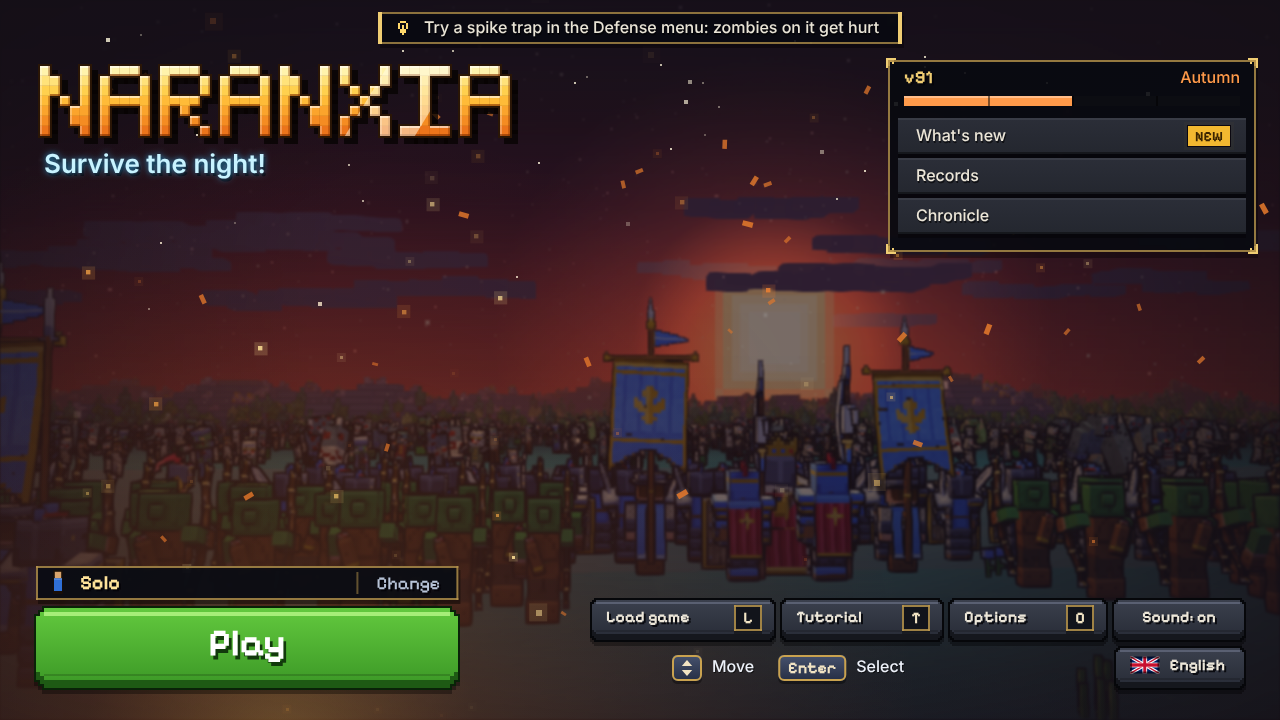
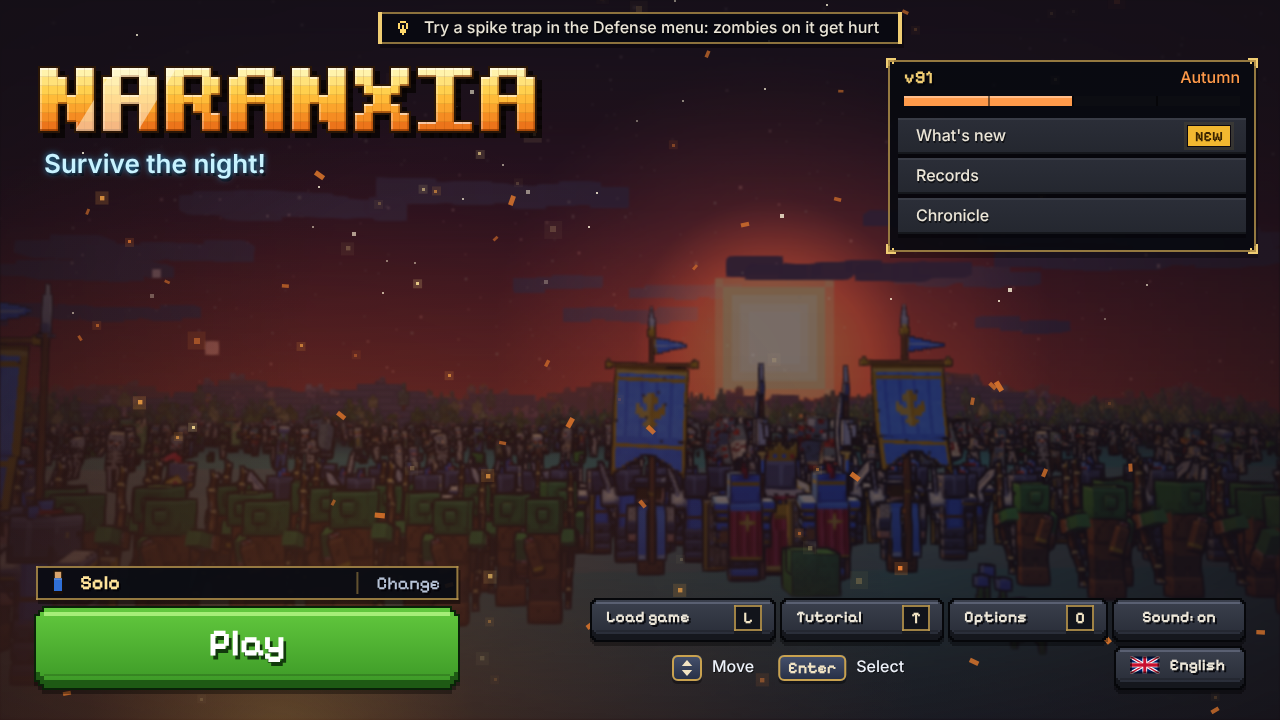
Revamp: review board (before / after), captures, notes, fitcheck result
docs/studio-boards/revamp/board.html, 1280x720 captures of every reworked
screen, 390x844 for title, modes, saves and settings, studio note, fitcheck
output (TOTAL 1, the known French "Construire").

Claude-Session: https://claude.ai/code/session_01RjDKDR1nq7agPQpxDGEi8u

diff --git a/docs/studio-boards/revamp/board.html b/docs/studio-boards/revamp/board.html
@@ -1,0 +1,69 @@
+<!doctype html><html lang="fr"><head><meta charset="utf-8"><meta name="viewport" content="width=device-width,initial-scale=1"><title>Naranxia - revamp menus</title>
+<style>body{margin:0;background:#0b1020;color:#ece6d8;font:15px/1.45 system-ui,Segoe UI,Arial,sans-serif}main{max-width:1500px;margin:0 auto;padding:18px}h1{color:#f0cd73;font-size:24px;margin:6px 0}h2{color:#f0cd73;font-size:17px;margin:26px 0 4px}p{margin:4px 0 10px;color:#b9b2a2}.r{display:grid;grid-template-columns:1fr 1fr;gap:12px}.r.one{grid-template-columns:1fr}figure{margin:0;background:#141a2e;border:1px solid #3a3420;padding:6px}figcaption{font-weight:700;color:#f0cd73;padding:2px 2px 6px}img{width:100%;height:auto;display:block}.ph{display:flex;gap:12px;flex-wrap:wrap}.ph figure{width:230px}@media(max-width:800px){.r{grid-template-columns:1fr}}</style></head><body><main>
+<h1>Naranxia : revamp des fenêtres de lancement, des menus, des logos et des animations</h1>
+<p>Une ligne par écran : A = avant, B = après. Répondez avec un code par ligne, par exemple « 1B 2B 3A ». Les animations (entrée des fenêtres, boutons qui s'enfoncent, reflet du logo, braises, rideau titre vers jeu, pastilles NEW) ne se voient pas sur des images fixes.</p>
+<h2>1. Écran titre (lobby)</h2><p>Bouton Jouer biseauté sous la bande du mode, boutons à pastille de touche, carte version / saison / Nouveautés, bandeau d'astuce, logo en blocs, lueur de feu.</p><div class="r">
+<figure><figcaption>1A avant</figcaption><img src="A_title.png" alt="avant"></figure>
+<figure><figcaption>1B après</figcaption><img src="B_title.png" alt="après"></figure>
+</div>
+<h2>2. Choix du mode</h2><p>Cartes à coches ; le mode courant est cerclé d'or. Cliquer une carte la choisit, son bouton lance tout de suite.</p><div class="r">
+<figure><figcaption>2A avant</figcaption><img src="A_modes.png" alt="avant"></figure>
+<figure><figcaption>2B après</figcaption><img src="B_modes.png" alt="après"></figure>
+</div>
+<h2>3. Nouveau royaume</h2><p>Même gabarit, gros bouton vert « Choisir le site ».</p><div class="r">
+<figure><figcaption>3A avant</figcaption><img src="A_setup.png" alt="avant"></figure>
+<figure><figcaption>3B après</figcaption><img src="B_setup.png" alt="après"></figure>
+</div>
+<h2>4. Charger une partie</h2><p>Lignes avec bannière, étiquette de vague, date ; Charger / Supprimer dépliés sous la ligne choisie.</p><div class="r">
+<figure><figcaption>4A avant</figcaption><img src="A_saves.png" alt="avant"></figure>
+<figure><figcaption>4B après</figcaption><img src="B_saves.png" alt="après"></figure>
+</div>
+<h2>5. Langue</h2><p>Lignes pleine largeur, coche sur la langue active.</p><div class="r">
+<figure><figcaption>5A avant</figcaption><img src="A_lang.png" alt="avant"></figure>
+<figure><figcaption>5B après</figcaption><img src="B_lang.png" alt="après"></figure>
+</div>
+<h2>6. Chronique</h2><p>Sections, texte qui défile (molette, clavier, doigt) au lieu de rétrécir.</p><div class="r">
+<figure><figcaption>6A avant</figcaption><img src="A_chronicle.png" alt="avant"></figure>
+<figure><figcaption>6B après</figcaption><img src="B_chronicle.png" alt="après"></figure>
+</div>
+<h2>7. Records</h2><p>Sections Record / Dernière partie / Meilleures parties.</p><div class="r">
+<figure><figcaption>7A avant</figcaption><img src="A_records.png" alt="avant"></figure>
+<figure><figcaption>7B après</figcaption><img src="B_records.png" alt="après"></figure>
+</div>
+<h2>8. Nouveautés</h2><p>Liste à puces qui défile.</p><div class="r">
+<figure><figcaption>8A avant</figcaption><img src="A_notes.png" alt="avant"></figure>
+<figure><figcaption>8B après</figcaption><img src="B_notes.png" alt="après"></figure>
+</div>
+<h2>9. Réglages : Jeu</h2><p>Onglets biseautés, sections, valeurs à droite.</p><div class="r">
+<figure><figcaption>9A avant</figcaption><img src="A_settings0.png" alt="avant"></figure>
+<figure><figcaption>9B après</figcaption><img src="B_settings0.png" alt="après"></figure>
+</div>
+<h2>10. Réglages : Affichage et son</h2><p>Curseurs et choix sur la ligne.</p><div class="r">
+<figure><figcaption>10A avant</figcaption><img src="A_settings1.png" alt="avant"></figure>
+<figure><figcaption>10B après</figcaption><img src="B_settings1.png" alt="après"></figure>
+</div>
+<h2>11. Réglages : Touches</h2><p>Liste qui défile, pastilles de touche.</p><div class="r">
+<figure><figcaption>11A avant</figcaption><img src="A_settings3.png" alt="avant"></figure>
+<figure><figcaption>11B après</figcaption><img src="B_settings3.png" alt="après"></figure>
+</div>
+<h2>12. Menu Échap</h2><p>Même gabarit sur un voile sombre ; Échap revient au jeu.</p><div class="r">
+<figure><figcaption>12A avant</figcaption><img src="A_esc.png" alt="avant"></figure>
+<figure><figcaption>12B après</figcaption><img src="B_esc.png" alt="après"></figure>
+</div>
+<h2>13. Écran de fin</h2><p>Voile rouge sombre, cadre à coins ornés, titre doré, boutons biseautés. (Fond de capture : la scène du titre.)</p><div class="r">
+<figure><figcaption>13A avant</figcaption><img src="A_end.png" alt="avant"></figure>
+<figure><figcaption>13B après</figcaption><img src="B_end.png" alt="après"></figure>
+</div>
+<h2>14. Intro Hammerdawn Studio</h2><p>Marteau et aube en pixel, bleu nuit et or. (Avant : carte blanche, logo au trait bleu ; pas de capture.)</p><div class="r one">
+<figure><figcaption>14B après</figcaption><img src="B_boot.png" alt="après" style="max-width:640px"></figure>
+</div>
+<h2>15. Favicon</h2><p>N en blocs (nouveau : il n'y en avait pas).</p><div class="r one">
+<figure><figcaption>15B après</figcaption><img src="B_favicon.png" alt="après" style="max-width:640px"></figure>
+</div>
+<h2>16. Téléphone (390x844), après</h2><p>Mêmes écrans en étroit : pile verticale, onglets, lignes sur deux niveaux quand les choix ne tiennent pas.</p><div class="ph">
+<figure><figcaption>Titre 390x844</figcaption><img src="B390_title.png" alt="Titre 390x844"></figure>
+<figure><figcaption>Modes 390x844</figcaption><img src="B390_modes.png" alt="Modes 390x844"></figure>
+<figure><figcaption>Charger 390x844</figcaption><img src="B390_saves.png" alt="Charger 390x844"></figure>
+<figure><figcaption>Réglages 390x844</figcaption><img src="B390_settings0.png" alt="Réglages 390x844"></figure>
+<figure><figcaption>Affichage et son 390x844</figcaption><img src="B390_settings1.png" alt="Affichage et son 390x844"></figure>
+</div></main></body></html>

diff --git a/docs/studio-boards/revamp/make_board.py b/docs/studio-boards/revamp/make_board.py
@@ -1,0 +1,35 @@
+#!/usr/bin/env python3
+"""Writes board.html (before / after, one row per screen) from the captures in this folder. A = before (release-v84), B = after."""
+from pathlib import Path
+D=Path(__file__).resolve().parent
+ROWS=[('title','Écran titre (lobby)','Bouton Jouer biseauté sous la bande du mode, boutons à pastille de touche, carte version / saison / Nouveautés, bandeau d\'astuce, logo en blocs, lueur de feu.'),
+ ('modes','Choix du mode','Cartes à coches ; le mode courant est cerclé d\'or. Cliquer une carte la choisit, son bouton lance tout de suite.'),
+ ('setup','Nouveau royaume','Même gabarit, gros bouton vert « Choisir le site ».'),
+ ('saves','Charger une partie','Lignes avec bannière, étiquette de vague, date ; Charger / Supprimer dépliés sous la ligne choisie.'),
+ ('lang','Langue','Lignes pleine largeur, coche sur la langue active.'),
+ ('chronicle','Chronique','Sections, texte qui défile (molette, clavier, doigt) au lieu de rétrécir.'),
+ ('records','Records','Sections Record / Dernière partie / Meilleures parties.'),
+ ('notes','Nouveautés','Liste à puces qui défile.'),
+ ('settings0','Réglages : Jeu','Onglets biseautés, sections, valeurs à droite.'),
+ ('settings1','Réglages : Affichage et son','Curseurs et choix sur la ligne.'),
+ ('settings3','Réglages : Touches','Liste qui défile, pastilles de touche.'),
+ ('esc','Menu Échap','Même gabarit sur un voile sombre ; Échap revient au jeu.'),
+ ('end','Écran de fin','Voile rouge sombre, cadre à coins ornés, titre doré, boutons biseautés. (Fond de capture : la scène du titre.)'),
+ ('boot','Intro Hammerdawn Studio','Marteau et aube en pixel, bleu nuit et or. (Avant : carte blanche, logo au trait bleu ; pas de capture.)'),
+ ('favicon','Favicon','N en blocs (nouveau : il n\'y en avait pas).')]
+P=[('B390_title','Titre 390x844'),('B390_modes','Modes 390x844'),('B390_saves','Charger 390x844'),('B390_settings0','Réglages 390x844'),('B390_settings1','Affichage et son 390x844')]
+h=['<!doctype html><html lang="fr"><head><meta charset="utf-8"><meta name="viewport" content="width=device-width,initial-scale=1"><title>Naranxia - revamp menus</title>',
+ '<style>body{margin:0;background:#0b1020;color:#ece6d8;font:15px/1.45 system-ui,Segoe UI,Arial,sans-serif}main{max-width:1500px;margin:0 auto;padding:18px}h1{color:#f0cd73;font-size:24px;margin:6px 0}h2{color:#f0cd73;font-size:17px;margin:26px 0 4px}p{margin:4px 0 10px;color:#b9b2a2}.r{display:grid;grid-template-columns:1fr 1fr;gap:12px}.r.one{grid-template-columns:1fr}figure{margin:0;background:#141a2e;border:1px solid #3a3420;padding:6px}figcaption{font-weight:700;color:#f0cd73;padding:2px 2px 6px}img{width:100%;height:auto;display:block}.ph{display:flex;gap:12px;flex-wrap:wrap}.ph figure{width:230px}@media(max-width:800px){.r{grid-template-columns:1fr}}</style></head><body><main>',
+ '<h1>Naranxia : revamp des fenêtres de lancement, des menus, des logos et des animations</h1>',
+ '<p>Une ligne par écran : A = avant, B = après. Répondez avec un code par ligne, par exemple « 1B 2B 3A ». Les animations (entrée des fenêtres, boutons qui s\'enfoncent, reflet du logo, braises, rideau titre vers jeu, pastilles NEW) ne se voient pas sur des images fixes.</p>']
+for i,(k,t,n) in enumerate(ROWS,1):
+    a=(D/('A_%s.png'%k)).exists();b=(D/('B_%s.png'%k)).exists()
+    h.append('<h2>%d. %s</h2><p>%s</p><div class="r%s">'%(i,t,n,'' if a and b else ' one'))
+    if a:h.append('<figure><figcaption>%dA avant</figcaption><img src="A_%s.png" alt="avant"></figure>'%(i,k))
+    if b:h.append('<figure><figcaption>%dB après</figcaption><img src="B_%s.png" alt="après"%s></figure>'%(i,k,' style="max-width:640px"' if not a else ''))
+    h.append('</div>')
+h.append('<h2>%d. Téléphone (390x844), après</h2><p>Mêmes écrans en étroit : pile verticale, onglets, lignes sur deux niveaux quand les choix ne tiennent pas.</p><div class="ph">'%(len(ROWS)+1))
+for k,t in P:
+    if (D/(k+'.png')).exists():h.append('<figure><figcaption>%s</figcaption><img src="%s.png" alt="%s"></figure>'%(t,k,t))
+h.append('</div></main></body></html>')
+(D/'board.html').write_text('\n'.join(h),encoding='utf-8');print('board.html',len(ROWS)+1,'rows')

diff --git a/docs/studio-notes/revamp.md b/docs/studio-notes/revamp.md
@@ -1,0 +1,10 @@
+## Revamp (demande du Roi : fenêtres de lancement, menus, logos, animations ; style Minecraft Dungeons, art original), base release-v84, UI seulement
+
+- Lot 1 (8f90b87) : `ui/menu-kit.js` = le gabarit plein écran (`kitScreen` : panneau très sombre, damier discret, dégradé rouge en bas, cadre fin à coins ornés, ligne de version + grand titre pixel doré, bouton fermer ; `listBegin`/`listEnd` : sections, lignes pleine largeur `kitRow`, défilement molette / clavier / doigt, barre fine ; `bevelBtn`, `kitTabs`, `keyChip`, `newPill`). Titre en lobby (`title-menu.js drawLobby`) : bandeau d'astuce, logo à gauche, compteurs hexagonaux (si un record existe), carte version / saison / What's new (pastille NEW jusqu'à lecture, `dk_seenver`) / Records / Chronicle, bande « mode | Change » + gros Play (lance le mode courant, `dk_mode`, défaut Solo), Continue doré si une sauvegarde existe, boutons compacts Load game [L] / Tutorial [T] / Options [O] / Sound / langue (+ Exit to desktop sur le launcher). Choix du mode : cliquer une carte la choisit et revient au titre, le bouton de la carte lance tout de suite. Nouveau royaume, Load game (ligne choisie = Load / Delete dépliés), Langue, Chronique, Records, What's new au gabarit. Les écrans à lignes prennent le focus clavier / manette (le 1er Entrée ne fait que montrer le focus).
+- Lot 2 : Réglages (onglets biseautés, sections General / Accessibility / Help, Sound / Display, Keyboard ; choix en pastilles sur la ligne, curseurs, liste des touches qui défile), menu Échap au gabarit sur voile sombre (Échap = retour au jeu, c'était affiché mais non câblé), écran de fin (voile rouge sombre, cadre, titre doré, boutons biseautés), site picker en habillage menu + bouton biseauté. `navAdd` ne fait plus rien quand la navigation est inactive.
+- Lot 3 : logo NARANXIA en blocs dessiné en code (`title-frame.js` : lettres 6x7, or vers orange, ombre dure, relief, mis en cache hors écran, reflet lent), carte Hammerdawn Studio de l'intro (`index.html` + `styles/boot.css` : marteau et aube en pixel, bleu nuit et or ; la carte Claude reste claire), favicon SVG en ligne (N en blocs). `apps/desktop/icon.ico|icns` non refaits (binaires).
+- Lot 4 : `ui/menu-fx.js` (lueur de feu du titre, rideau titre vers jeu 450 ms), braises plus nombreuses côté feu, pastilles NEW du menu de construction qui pulsent ; entrée des fenêtres (glissement 8 px + fondu 150 ms), boutons qui s'enfoncent, reflet du logo. Tout sur `performance.now()`, coupé par Reduce motion (`rmotion()`), aucun `Math.random` / `Date` ajouté, rien dans `update()`.
+- Hors périmètre touché, sur demande de la tâche : `i18n/language.js` (`drawLang` au gabarit, `drawFlag` exporté), `index.html`, `styles/boot.css`. Rien sous `game/`, ni `translations.js`.
+- Textes : `docs/studio-texts/revamp.json` (17 clés, 6 langues). À fusionner avec `tools/addtexts.py`.
+- Planche : `docs/studio-boards/revamp/board.html` (avant / après, `cap.py`, `cap_boot.py`, `make_board.py`).
+- Lead : fusionner revamp.json, publier la planche après relecture, tester sur vrai tactile (défilement des listes au doigt, pastilles de touche masquées), manette, launcher (bouton Exit to desktop, Open saves folder).
